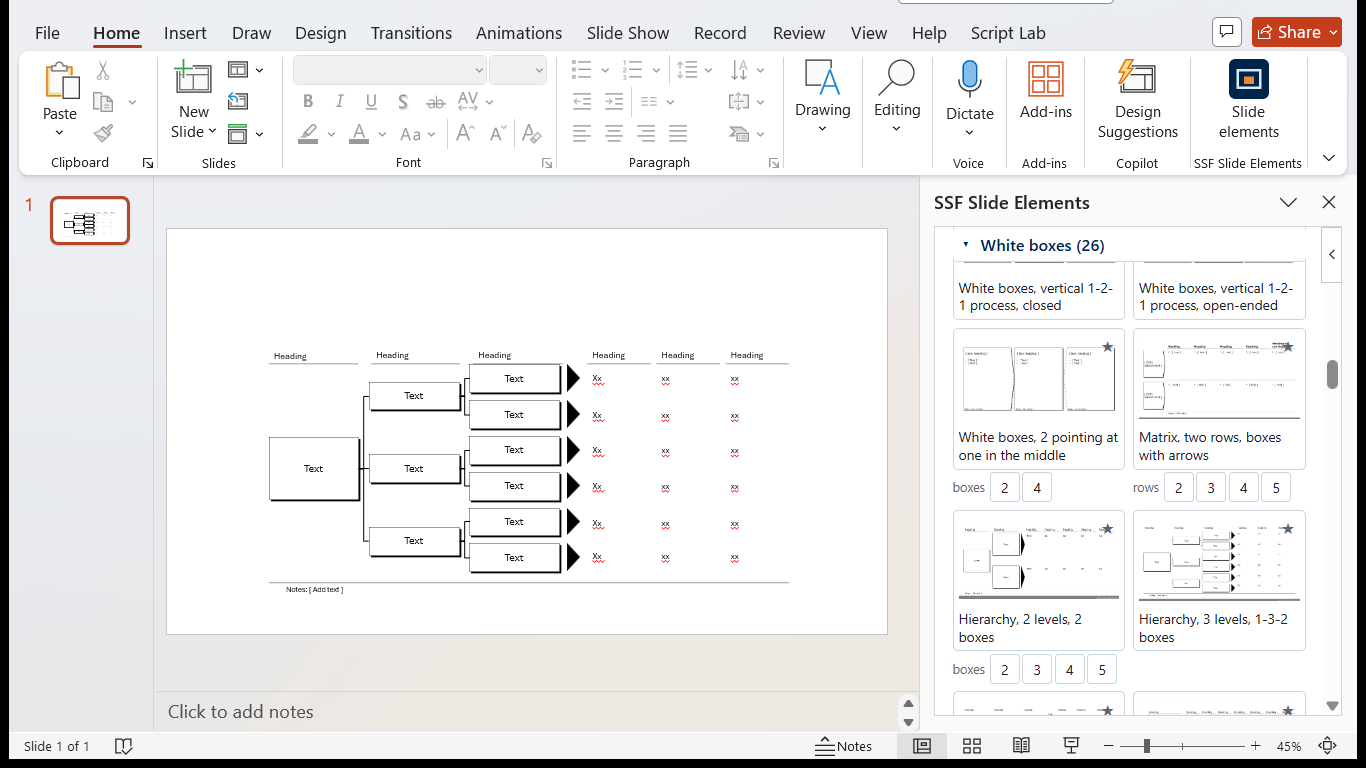
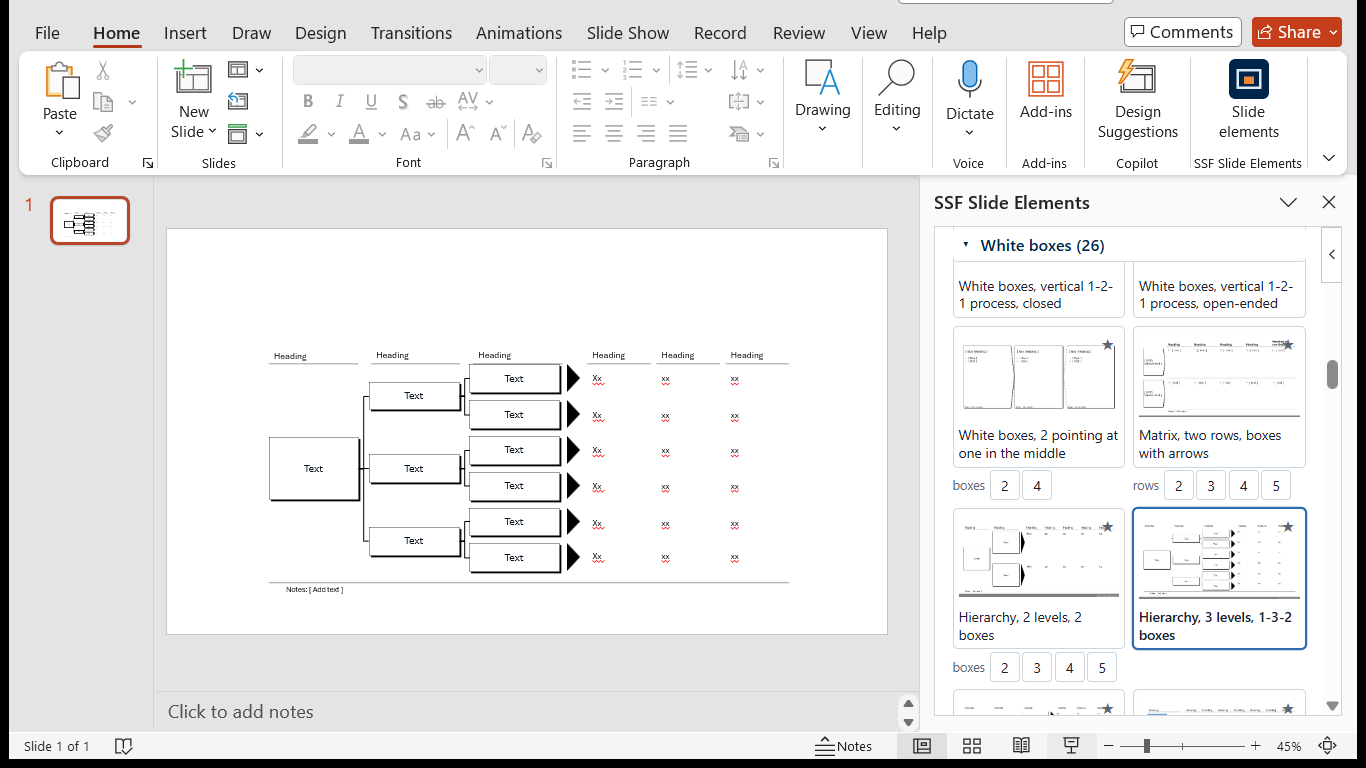
Retake the listing pictures without Script Lab, and refuse to take one with it
AppSource failed the 2026-09-24 submission on 2026-09-30 under certification
policy 100.3.2.2 Content and Quality: "Images contain references to another
add-in, kindly update the images", against Offer Listing -> Screenshots. The
reference was a Script Lab tab, and it was in all five pictures.

Nothing was found wrong with the package, the manifest, the pane, the test deck
or the notes, and nothing here changes the add-in. The pictures live in docs/
and in Partner Center; the site does not serve them, so no deploy is involved.

Script Lab is a store add-in (wa104380862). docs/LISTING.md had reasoned, in
writing, that leaving it in was acceptable: it draws a tab rather than a group,
it is Microsoft's own developer tool, and removing it means uninstalling rather
than editing a cache. Every clause was true and the conclusion was wrong. The
policy is about what is in the picture and does not care whose add-in it is.

The guard in place could not have caught it in principle. ribbon-cache.mjs
takes a list of ids to DROP, so it removes only what somebody remembered to
name, and the two it was given were the sideloaded siblings; a store add-in
puts itself back at every start, which is the one case a drop list cannot hold.

So listing-shot.ps1 now asks the other question. Not "has everything named been
removed", which is a question about somebody's memory, but "is anything PRESENT
that we did not expect", which is a question about the picture. It reads the
[…]

diff --git a/docs/LISTING.md b/docs/LISTING.md
@@ -161,10 +161,22 @@ This one should not be faked, and it is not a thing this repository can decide:
   product, and nothing that has to be cleared for publication.
 
 **The submission's pictures are committed — FIVE of them**, retaken on
-2026-09-24 against build `49890b6`, which the live pane confirmed through its
-own `data-build` before the shutter. `test/listing.test.ts` sweeps
+**2026-10-02 against build `2cbeb7a`**, which the live pane confirmed through
+its own `data-build` before the shutter. `test/listing.test.ts` sweeps
 `docs/listing-*.png` and holds every one to 1366×768, because a capture at the
 wrong size looks right.
+
+**Why they were retaken: AppSource failed the submission on them.** The
+2026-09-24 set was rejected on 2026-09-30 under certification policy
+**100.3.2.2 Content and Quality** — "Images contain references to another
+add-in, kindly update the images" — and the reference was a **Script Lab tab**,
+in all five pictures. The paragraph further down this file that reasoned Script
+Lab was acceptable to leave in is what shipped them, and it has been corrected
+rather than deleted, because the next person will have the same thought.
+
+The 2026-10-02 set was taken with Script Lab **uninstalled** and the two
+sideloaded siblings trimmed from the ribbon cache, and the capture is now
+refused outright when anything else is on the ribbon — see the gate below.
 
 | file | what it shows |
 | --- | --- |
@@ -211,11 +223,21 @@ A store picture that quotes a number has to be retaken when the number moves.
 The recipe is below and it is a script for that reason; it was retaken three
 times on 2026-09-16 alone.
 
-**The two sibling add-ins must be off the ribbon first.** This machine carries
-SSF Merge and SSF Charts, and their ribbon groups would otherwise sit in a
-picture on a public store page. `scripts/ribbon-cache.mjs` takes them off; back
-the file up first and put them back afterwards, because it belongs to
-PowerPoint:
+**EVERY other add-in must be off the ribbon first — not just the two
+siblings.** This machine carries SSF Merge and SSF Charts, whose ribbon GROUPS
+would otherwise sit in a picture on a public store page, and it carried Script
+Lab, whose ribbon TAB did sit in five of them and failed the submission. The
+rule is the picture, not the family: anything that is not PowerPoint's own
+chrome and not this add-in has to go.
+
+Two different removals, because they are two different kinds of install:
+
+- **Sideloaded (the siblings):** trim them from the ribbon cache, below.
+- **From the store (Script Lab):** uninstall it in PowerPoint. The cache cannot
+  hold a store add-in off; it puts itself back at the next start.
+
+`scripts/ribbon-cache.mjs` does the trim; back the file up first and put it
+back afterwards, because it belongs to PowerPoint:
 
 ```powershell
 $cache = "$env:LOCALAPPDATA\Microsoft\Office\16.0\Wef\AppCommands\18.0\PowerPoint.RibbonCache.en-GB"
@@ -227,6 +249,18 @@ Copy-Item "$env:TEMP\RibbonCache.backup" $cache -Force
 
 PowerPoint reads that file at startup, so it has to be closed while it changes.
 
+**Check what the ribbon actually shows before believing any of it**, with a
+deck open rather than the start screen, which has no ribbon:
+
+```powershell
+powershell -ExecutionPolicy Bypass -File scripts\listing-shot.ps1 -ListChrome
+```
+
+It prints every tab and every ribbon group. A clean machine on 2026-10-02 gave
+eleven tabs ending at `Help`, and groups ending at `SSF Slide Elements`. This is
+also how the two allowlists in that script were set, and how to re-set them when
+an Office update renames something.
+
 **The pane is scrolled** in the pictures that show tiles, so they carry actual
 ELEMENTS rather than a column of headings. `listing-shot.ps1` does not scroll;
 it is done through the pane's own devtools, which needs PowerPoint started with
@@ -234,6 +268,27 @@ it is done through the pane's own devtools, which needs PowerPoint started with
 1366×768 the pane's viewport is 391 px and the header, search box, tag row,
 "Used in this deck" link and count come to about 389 of it, so the first tile
 sits one pixel below the fold.
+
+**The five states, in the order they were driven on 2026-10-02.** Connect to
+the pane over CDP (`http://127.0.0.1:9444/json/list` names one target, the
+task pane) and set `document.scrollingElement.scrollTop`. Capture between
+steps with `listing-shot.ps1 -CaptureOnly`, which skips making the deck and
+opening the pane and photographs what is already there. Picture 1 is taken on
+the EMPTY deck; the insert happens after it, and the other four show it.
+
+| # | file | state | `scrollTop` |
+| --- | --- | --- | --- |
+| 1 | `listing-screenshot.png` | fresh pane, White boxes open | 208 |
+| — | — | click the tile `Hierarchy, 3 levels, 1-3-2 boxes`, wait for the delta | — |
+| 4 | `listing-inserted.png` | scroll to the bottom | max (2548) |
+| 5 | `listing-used.png` | click "See what this deck already uses" | 74 |
+| 3 | `listing-search.png` | type `process` into the search box | 253 |
+| 2 | `listing-open-all.png` | clear the search, click "Open all" | tile `White boxes, 2 pointing at one in the middle` 79 px below the fold |
+
+The offsets are pixels into a particular build's pane and will not survive a
+layout change; they are written down as a STARTING POINT for the next retake,
+not as a constant. What does not change is the order, because picture 1 needs
+an empty slide and the rest need the element on it.
 
 ### Taking it
 
@@ -266,11 +321,32 @@ change something outside this repository:
    2026-09-16: the cache was trimmed to this add-in alone with PowerPoint shut,
    and the copy that started next listed two — this one and `wa104380862`, which
    is Script Lab, installed from AppSource. The two sideloaded siblings stayed
-   off. Script Lab draws a TAB rather than a ribbon group, it is Microsoft's own
-   developer tool, and the committed shot has always carried it; taking it off
-   would mean uninstalling it rather than editing a cache, which is the owner's
-   call and not worth making. So trim the two GUIDs and expect the store one
-   back.
+   off.
+
+   **This paragraph used to end by waving that away, and it cost the
+   submission.** It said Script Lab draws a tab rather than a group, that it is
+   Microsoft's own developer tool, that the committed shot had always carried
+   it, and that taking it off would mean uninstalling it — "the owner's call and
+   not worth making". AppSource failed the submission on exactly that tab on
+   2026-09-30, under policy 100.3.2.2. Every clause of the reasoning was true
+   and the conclusion was wrong: the policy is about what is in the PICTURE, and
+   it does not care whose add-in it is, whether it draws a tab or a group, or
+   how awkward it is to remove.
+
+   **So a store add-in has to be UNINSTALLED for the capture, not trimmed.**
+   Editing the cache cannot hold it: it puts itself back at the next start, as
+   the 2026-09-16 measurement above says. Uninstall it from PowerPoint's own
+   Office Add-ins dialog (Home → Add-ins → More Add-ins → My Add-ins → right
+   click → Remove), take the pictures, and reinstall it afterwards — Script Lab
+   is how `probe/probe-snippet.ts` gets run on a host, so leaving it off is its
+   own quiet cost. Trim the two sideloaded GUIDs as before, and expect nothing
+   to come back.
+
+   **And none of this is trusted to memory any more.** `listing-shot.ps1`
+   refuses the shutter when the ribbon carries any tab or group it does not
+   recognise, so the capture fails rather than shipping. The old arrangement
+   could not have caught Script Lab in principle: `ribbon-cache.mjs` takes a
+   list of ids to DROP, so it removes only what somebody remembered to name.
 2. **The status bar's language indicator** ("English (Denmark)"). Right-click
    the status bar and untick **Language**. It is a display setting, it does not
    change the editing language, and it did not survive a PowerPoint restart when

diff --git a/docs/BACKLOG.md b/docs/BACKLOG.md
@@ -42,6 +42,27 @@ Left:
 1. **The Partner Center submission** of `manifest-prod.xml`. The owner's, and
    the only step that needs a Microsoft sign-in.
 
+   **Submitted 2026-09-24. FAILED certification 2026-09-30**, on one finding and
+   nothing else: policy **100.3.2.2 Content and Quality**, "Images contain
+   references to another add-in, kindly update the images", against Offer
+   Listing → Screenshots. The reference was a **Script Lab tab** in all five
+   pictures — a store add-in that had been left on the ribbon on purpose, with
+   the reasoning written down in `docs/LISTING.md`.
+
+   Nothing was found wrong with the package, the manifest, the pane, the test
+   deck or the notes. **No code changed and no deploy is needed**: the pictures
+   live in `docs/` and in Partner Center, and the site does not serve them.
+
+   Done since, 2026-10-02: the five pictures retaken against build `2cbeb7a`
+   with Script Lab uninstalled and the siblings trimmed, and
+   `scripts/listing-shot.ps1` now REFUSES the shutter while the ribbon carries
+   anything it does not recognise, so the next retake cannot repeat it. The
+   old guard could not have caught it: `ribbon-cache.mjs` takes a list of ids
+   to DROP and removes only what somebody remembered to name.
+
+   **Left: re-upload the five screenshots in Partner Center and resubmit.** The
+   owner's, like the first submission.
+
 ## Settled — do not re-open
 
 ### The run's skip branch is defensive, not reachable by a COM deletion
